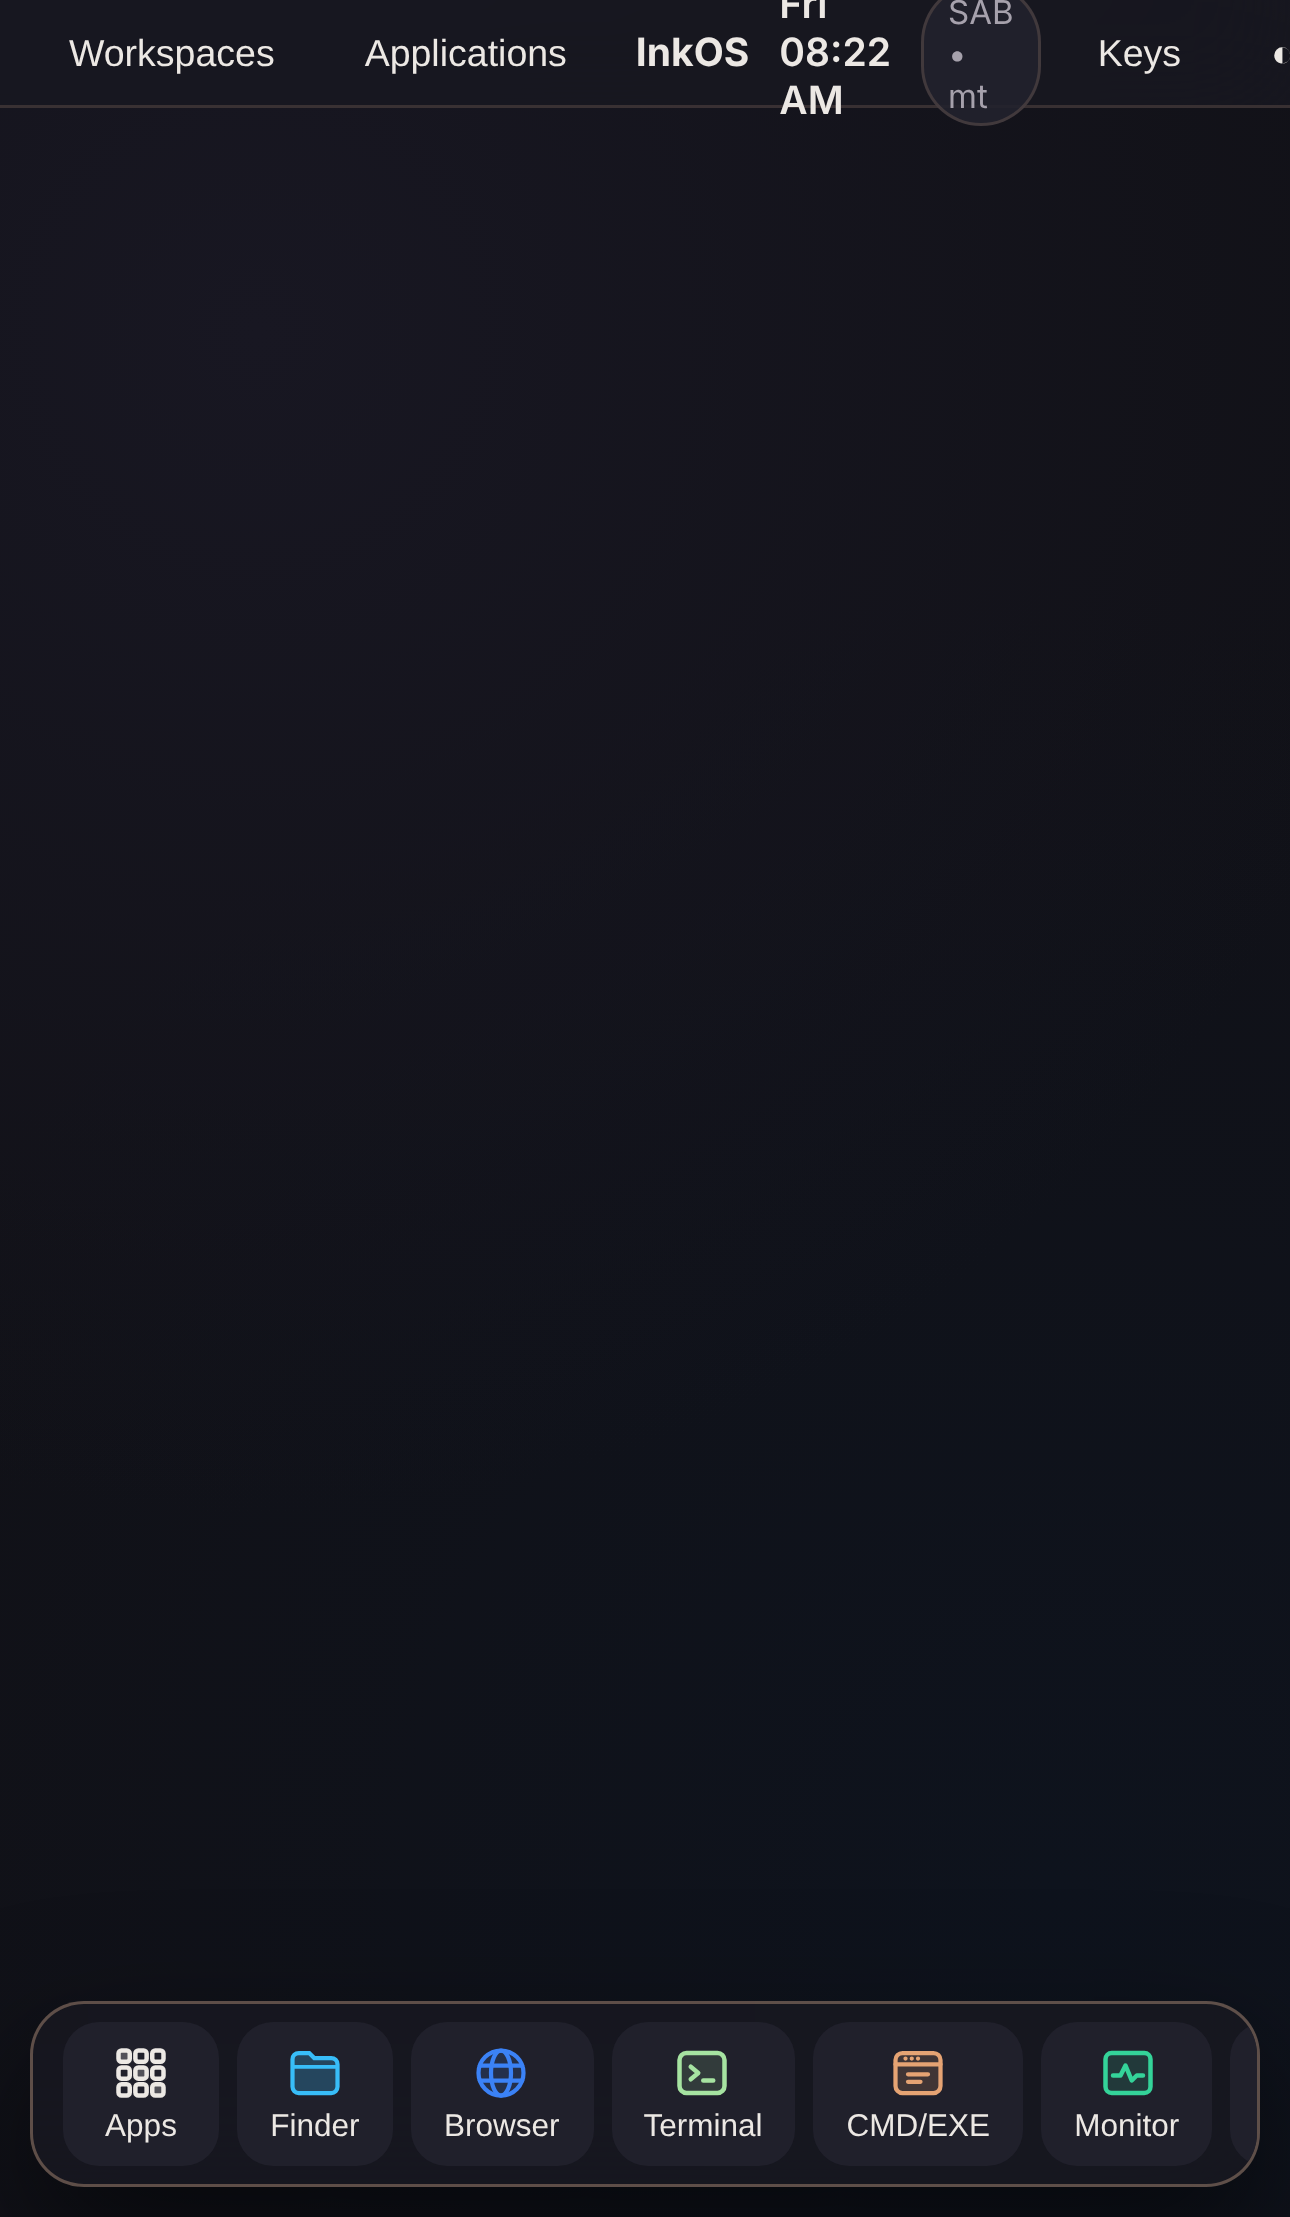
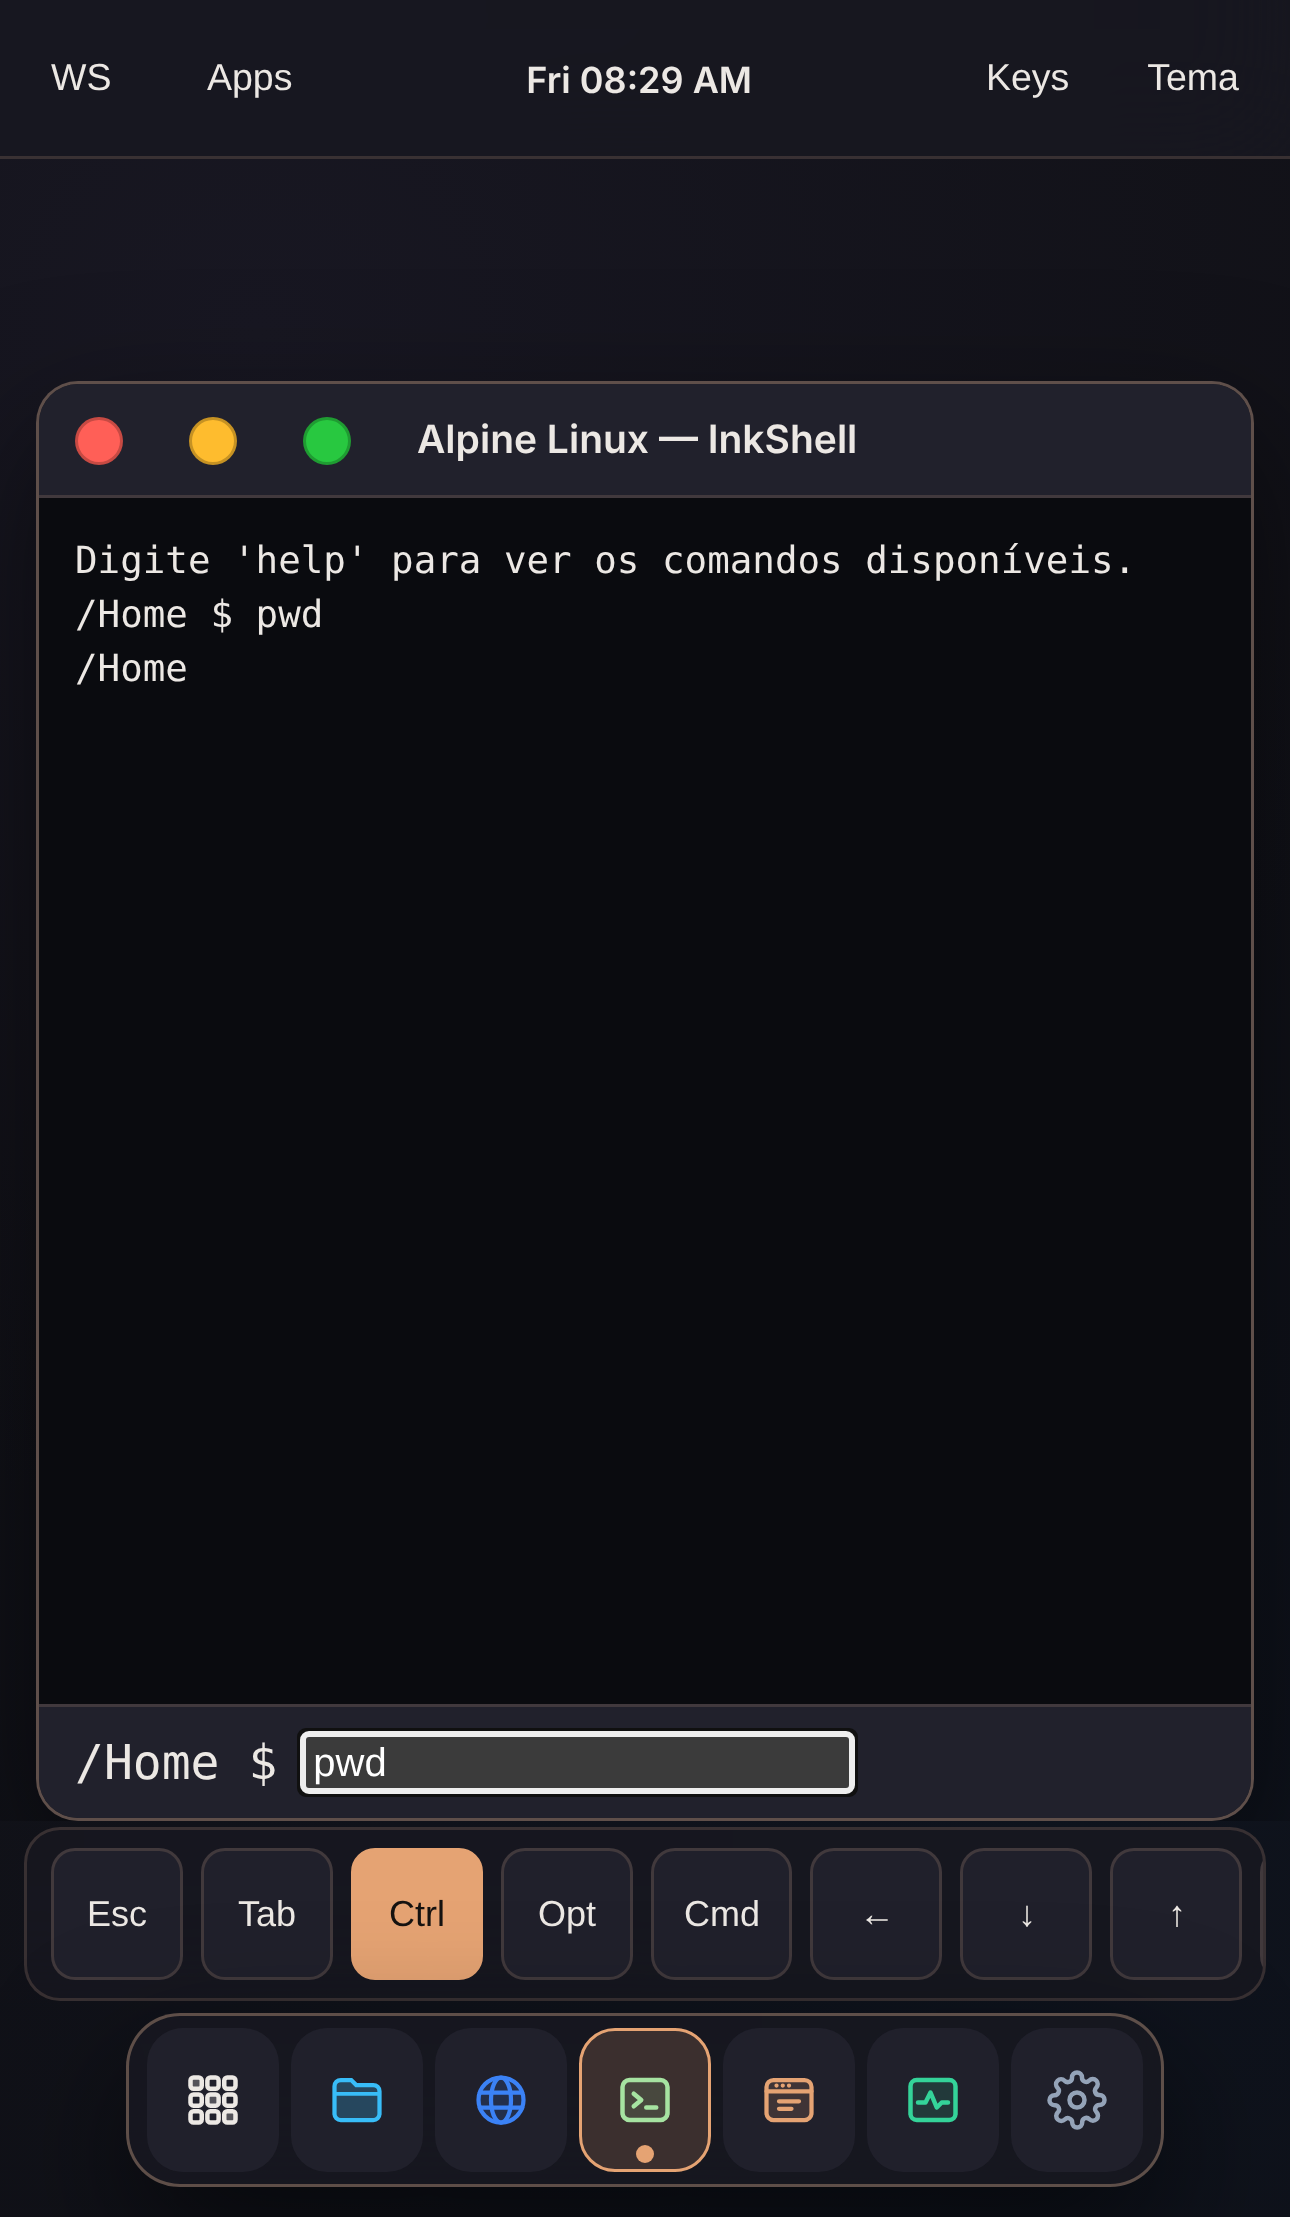
feat(mobile): sticky modifier bar, touch gestures, 44px targets, viewport fit
Modifier bar sends keys to the focused field with sticky/locked Ctrl/Opt/Cmd.
Two-finger tap and long press raise contextmenu. Windows refit when the
desktop resizes (rotation, keyboard, external display). Fixes quick taps
on different buttons being swallowed by the double-tap-zoom guard.

Claude-Session: https://claude.ai/code/session_013qXTaSQN9mncCYe83Fw6GL

diff --git a/inkos/web/js/mobile.js b/inkos/web/js/mobile.js
@@ -1,37 +1,169 @@
-// Ajustes de mobilidade e toque para iPhone e iPad no InkOS
-export function initMobileSupport() {
-  if (typeof document === "undefined") return;
+// Touch and iPad/iPhone support for InkOS.
+// - Trackpad-style gestures (Pointer Events): tap = click (native), two-finger
+//   scroll (native, touch-action pan inside windows), two-finger tap =
+//   right click (contextmenu), long press = right click on touch.
+// - Modifier bar: Esc, Tab, Ctrl, Opt, Cmd, arrows. Ctrl/Opt/Cmd are sticky
+//   (one tap = next key only, double tap = lock). Keys go to the focused field.
+// - visualViewport: --kb-inset follows the on-screen keyboard so the modifier
+//   bar stays above it.
 
-  const isTouchDevice =
-    "ontouchstart" in window ||
-    (typeof navigator !== "undefined" && navigator.maxTouchPoints > 0);
+const MODS = { Control: "ctrlKey", Alt: "altKey", Meta: "metaKey" };
 
-  document.documentElement.classList.toggle("is-touch", Boolean(isTouchDevice));
+export function initMobileSupport({ doc = document, win = window } = {}) {
+  const isTouch = "ontouchstart" in win || (win.navigator?.maxTouchPoints || 0) > 0;
+  doc.documentElement.classList.toggle("is-touch", Boolean(isTouch));
+  installModifierBar(doc);
+  installGestures(doc, win);
+  installViewport(doc, win);
 
-  // Evita zoom indesejado por duplo toque em controlos interativos no Safari mobile
-  let lastTouchEnd = 0;
-  document.addEventListener(
-    "touchend",
-    (e) => {
-      if (e.target.closest("input, textarea, select, iframe")) return;
-      const now = Date.now();
-      if (now - lastTouchEnd <= 280) {
-        e.preventDefault();
-      }
-      lastTouchEnd = now;
-    },
-    { passive: false }
-  );
-
-  // Fecha barras laterais ou launcher ao tocar fora numa área limpa do desktop
-  document.addEventListener("pointerdown", (e) => {
-    const wsRail = document.querySelector("#workspace-rail");
-    if (wsRail?.classList.contains("open") && !e.target.closest("#workspace-rail, #ws-toggle")) {
-      wsRail.classList.remove("open");
-    }
-    const modBar = document.querySelector("#modifier-bar");
-    if (modBar?.classList.contains("open") && !e.target.closest("#modifier-bar, #keys-toggle")) {
-      modBar.classList.remove("open");
-    }
+  // Close rails when tapping elsewhere.
+  doc.addEventListener("pointerdown", (e) => {
+    const rail = doc.querySelector("#workspace-rail");
+    if (rail?.classList.contains("open") && !e.target.closest("#workspace-rail, #ws-toggle")) rail.classList.remove("open");
   });
+}
+
+export function installModifierBar(doc = document) {
+  const bar = doc.querySelector("#modifier-bar");
+  if (!bar || bar.dataset.ready) return null;
+  bar.dataset.ready = "1";
+  const state = { Control: 0, Alt: 0, Meta: 0 }; // 0 off, 1 one-shot, 2 locked
+  const lastTap = {};
+  let lastField = null;
+
+  doc.addEventListener("focusin", (e) => {
+    if (e.target.matches?.("input, textarea, [contenteditable='true']")) lastField = e.target;
+  });
+
+  const paint = () => {
+    for (const btn of bar.querySelectorAll("button[data-key]")) {
+      const s = state[btn.dataset.key];
+      btn.classList.toggle("mod-on", s === 1);
+      btn.classList.toggle("mod-lock", s === 2);
+      if (s !== undefined) btn.setAttribute("aria-pressed", s ? "true" : "false");
+    }
+  };
+
+  // Keep focus in the text field while tapping bar buttons.
+  bar.addEventListener("pointerdown", (e) => {
+    if (e.target.closest("button")) e.preventDefault();
+  });
+
+  bar.addEventListener("click", (e) => {
+    const btn = e.target.closest("button[data-key]");
+    if (!btn) return;
+    const key = btn.dataset.key;
+    if (key in state) {
+      const now = Date.now();
+      const dbl = now - (lastTap[key] || 0) < 350;
+      lastTap[key] = now;
+      state[key] = dbl ? 2 : state[key] ? 0 : 1;
+      paint();
+      return;
+    }
+    const target = doc.activeElement?.matches?.("input, textarea") ? doc.activeElement : lastField;
+    if (!target) return;
+    target.focus();
+    const init = { key, bubbles: true, cancelable: true };
+    for (const [m, prop] of Object.entries(MODS)) if (state[m]) init[prop] = true;
+    const ev = new KeyboardEvent("keydown", init);
+    const notCancelled = target.dispatchEvent(ev);
+    if (notCancelled && key === "Tab" && "value" in target) {
+      const { selectionStart: s, selectionEnd: en, value } = target;
+      target.value = value.slice(0, s) + "\t" + value.slice(en);
+      target.selectionStart = target.selectionEnd = s + 1;
+    }
+    for (const m of Object.keys(state)) if (state[m] === 1) state[m] = 0;
+    paint();
+  });
+
+  // Physical keys also consume one-shot modifiers.
+  doc.addEventListener("keydown", (e) => {
+    if (!e.isTrusted) return;
+    let changed = false;
+    for (const m of Object.keys(state)) if (state[m] === 1) { state[m] = 0; changed = true; }
+    if (changed) paint();
+  }, true);
+
+  doc.querySelector("#keys-toggle")?.addEventListener("click", () => {
+    const open = bar.classList.toggle("open");
+    doc.documentElement.classList.toggle("mods-open", open);
+  });
+  paint();
+  return state;
+}
+
+export function installGestures(doc = document, win = window) {
+  const active = new Map();
+  let twoFinger = null;
+  let longPress = null;
+
+  const fireContext = (target, x, y) => {
+    target.dispatchEvent(new MouseEvent("contextmenu", { bubbles: true, cancelable: true, clientX: x, clientY: y, button: 2 }));
+  };
+
+  doc.addEventListener("pointerdown", (e) => {
+    if (e.pointerType !== "touch") return;
+    active.set(e.pointerId, { x: e.clientX, y: e.clientY, t: Date.now(), target: e.target });
+    clearTimeout(longPress);
+    if (active.size === 1) {
+      longPress = setTimeout(() => {
+        const p = active.get(e.pointerId);
+        if (p && active.size === 1) fireContext(p.target, p.x, p.y);
+      }, 550);
+    } else if (active.size === 2) {
+      const pts = [...active.values()];
+      twoFinger = { t: Date.now(), x: (pts[0].x + pts[1].x) / 2, y: (pts[0].y + pts[1].y) / 2, target: pts[0].target, moved: false };
+    }
+  }, { passive: true });
+
+  doc.addEventListener("pointermove", (e) => {
+    const p = active.get(e.pointerId);
+    if (!p) return;
+    if (Math.hypot(e.clientX - p.x, e.clientY - p.y) > 10) {
+      clearTimeout(longPress);
+      if (twoFinger) twoFinger.moved = true;
+    }
+  }, { passive: true });
+
+  const end = (e) => {
+    if (!active.has(e.pointerId)) return;
+    active.delete(e.pointerId);
+    clearTimeout(longPress);
+    if (twoFinger && active.size === 0) {
+      if (!twoFinger.moved && Date.now() - twoFinger.t < 300) fireContext(twoFinger.target, twoFinger.x, twoFinger.y);
+      twoFinger = null;
+    }
+  };
+  doc.addEventListener("pointerup", end, { passive: true });
+  doc.addEventListener("pointercancel", end, { passive: true });
+
+  // Block double-tap zoom on UI chrome, keep it in content.
+  // Only a second tap on the same element counts; quick taps on different
+  // buttons must still click.
+  let lastEnd = 0;
+  let lastTarget = null;
+  doc.addEventListener("touchend", (e) => {
+    if (e.target.closest("input, textarea, select, iframe, .window-body")) return;
+    const now = Date.now();
+    if (now - lastEnd <= 280 && e.target === lastTarget && !e.target.closest("#modifier-bar")) e.preventDefault();
+    lastEnd = now;
+    lastTarget = e.target;
+  }, { passive: false });
+}
+
+export function installViewport(doc = document, win = window) {
+  const vv = win.visualViewport;
+  const root = doc.documentElement;
+  const update = () => {
+    const inset = vv ? Math.max(0, win.innerHeight - vv.height - vv.offsetTop) : 0;
+    root.style.setProperty("--kb-inset", `${Math.round(inset)}px`);
+    root.style.setProperty("--dpr", String(win.devicePixelRatio || 1));
+    root.classList.toggle("kb-open", inset > 80);
+  };
+  vv?.addEventListener("resize", update);
+  vv?.addEventListener("scroll", update);
+  win.addEventListener("resize", update);
+  win.addEventListener("orientationchange", update);
+  update();
 }

diff --git a/inkos/web/theme/catppuccin.css b/inkos/web/theme/catppuccin.css
@@ -564,3 +564,48 @@ html, body {
   background: rgba(140, 144, 158, 0.38);
   border-color: transparent;
 }
+
+/* ---- Touch / mobile (E2.3) ---- */
+.lbl-short { display: none; }
+.modifier-bar {
+  bottom: calc(72px + var(--kb-inset, 0px));
+}
+.modifier-bar button.mod-on { background: var(--accent-soft); border-color: var(--accent); }
+.modifier-bar button.mod-lock { background: var(--accent); color: var(--accent-text); border-color: var(--accent); }
+.window-body { touch-action: pan-x pan-y; overscroll-behavior: contain; }
+html, body { overscroll-behavior: none; }
+.is-touch .top-pill,
+.is-touch .modifier-bar button,
+.is-touch .dock-item { min-height: 44px; min-width: 44px; }
+.is-touch .mac-light { position: relative; width: 16px; height: 16px; }
+.is-touch .mac-light::after { content: ""; position: absolute; inset: -14px; }
+.is-touch .mac-lights { gap: 22px; margin-right: 14px; }
+@media (max-width: 699px) {
+  .topbar { padding-left: max(8px, env(safe-area-inset-left)); padding-right: max(8px, env(safe-area-inset-right)); gap: 4px; }
+  .lbl-long, .topbar .brand, #isolation-badge { display: none; }
+  .lbl-short { display: inline; }
+  #clock { font-size: 12px; white-space: nowrap; }
+  .top-pill { padding: 4px 8px; }
+  .dock { gap: 4px; padding: 4px 6px; }
+  .dock-item span { display: none; }
+}
+@media (display-mode: fullscreen), (display-mode: standalone) {
+  .topbar { padding-top: env(safe-area-inset-top); }
+}
+.is-touch .topbar { height: auto; min-height: 52px; padding-top: 4px; padding-bottom: 4px; }
+@media (max-width: 699px) {
+  .modifier-bar {
+    left: 8px; right: 8px; transform: none;
+    flex-wrap: nowrap; overflow-x: auto; justify-content: flex-start;
+    bottom: calc(72px + var(--kb-inset, 0px)); margin-bottom: 0;
+  }
+  .modifier-bar button { flex: 0 0 auto; }
+  .kb-open .dock-wrap { display: none; }
+  .kb-open .modifier-bar { bottom: calc(4px + var(--kb-inset, 0px)); }
+}
+.is-touch .desktop { top: 52px; }
+@media (max-width: 699px) {
+  /* The desktop (and its windows, via WindowManager.fitAll) shrinks so the
+     modifier bar never covers the focused field. */
+  .mods-open .desktop { bottom: calc(132px + var(--kb-inset, 0px)); }
+}

diff --git a/inkos/web/index.html b/inkos/web/index.html
@@ -13,9 +13,9 @@
 <body>
   <header class="topbar" role="banner">
     <div class="topbar-left">
-      <button id="ws-toggle" class="top-pill" type="button">Workspaces</button>
-      <button id="top-apps-btn" class="top-pill" type="button">Applications</button>
-      <strong style="margin-left:4px;font-size:13px;">InkOS</strong>
+      <button id="ws-toggle" class="top-pill" type="button" aria-label="Workspaces"><span class="lbl-long">Workspaces</span><span class="lbl-short">WS</span></button>
+      <button id="top-apps-btn" class="top-pill" type="button" aria-label="Applications"><span class="lbl-long">Applications</span><span class="lbl-short">Apps</span></button>
+      <strong class="brand" style="margin-left:4px;font-size:13px;">InkOS</strong>
     </div>
     <div class="topbar-center">
       <span id="clock" style="font-weight:600;">--:--</span>
@@ -23,7 +23,7 @@
     <div class="topbar-right">
       <span id="isolation-badge" class="badge-iso"></span>
       <button id="keys-toggle" class="top-pill" type="button" title="Teclas modificadoras">Keys</button>
-      <button id="theme-toggle" class="top-pill" type="button" aria-label="Alternar tema claro e escuro">◐</button>
+      <button id="theme-toggle" class="top-pill" type="button" aria-label="Alternar tema claro e escuro">Tema</button>
     </div>
   </header>
 
@@ -95,19 +95,6 @@
     const wsRail = document.querySelector("#workspace-rail");
     document.querySelector("#ws-toggle").addEventListener("click", () => {
       wsRail.classList.toggle("open");
-    });
-
-    const modBar = document.querySelector("#modifier-bar");
-    document.querySelector("#keys-toggle").addEventListener("click", () => {
-      modBar.classList.toggle("open");
-    });
-    modBar.querySelectorAll("button[data-key]").forEach((btn) => {
-      btn.addEventListener("click", () => {
-        const active = document.activeElement;
-        if (active && (active.tagName === "INPUT" || active.tagName === "TEXTAREA")) {
-          active.dispatchEvent(new KeyboardEvent("keydown", { key: btn.dataset.key, bubbles: true }));
-        }
-      });
     });
 
     const [{ WindowManager }, appload] = await Promise.all([

diff --git a/inkos/web/js/wm.js b/inkos/web/js/wm.js
@@ -9,6 +9,26 @@ export class WindowManager {
     this.windows = new Map();
     this.zCounter = 10;
     this.workspace = 1;
+    // Keep windows inside the desktop when it changes size (rotation, external
+    // monitor, on-screen keyboard, modifier bar).
+    if (typeof ResizeObserver === "function") {
+      new ResizeObserver(() => this.fitAll()).observe(desktopEl);
+    }
+  }
+
+  fitAll() {
+    const dw = this.desktopEl.clientWidth;
+    const dh = this.desktopEl.clientHeight;
+    if (!dw || !dh) return;
+    for (const w of this.windows.values()) {
+      if (!w.maximized) {
+        w.width = Math.min(w.width, Math.max(320, dw));
+        w.height = Math.min(w.height, Math.max(220, dh));
+        w.x = Math.min(Math.max(0, w.x), Math.max(0, dw - w.width));
+        w.y = Math.min(Math.max(0, w.y), Math.max(0, dh - w.height));
+      }
+      this._applyGeometry(w);
+    }
   }
 
   setWorkspace(ws) {
